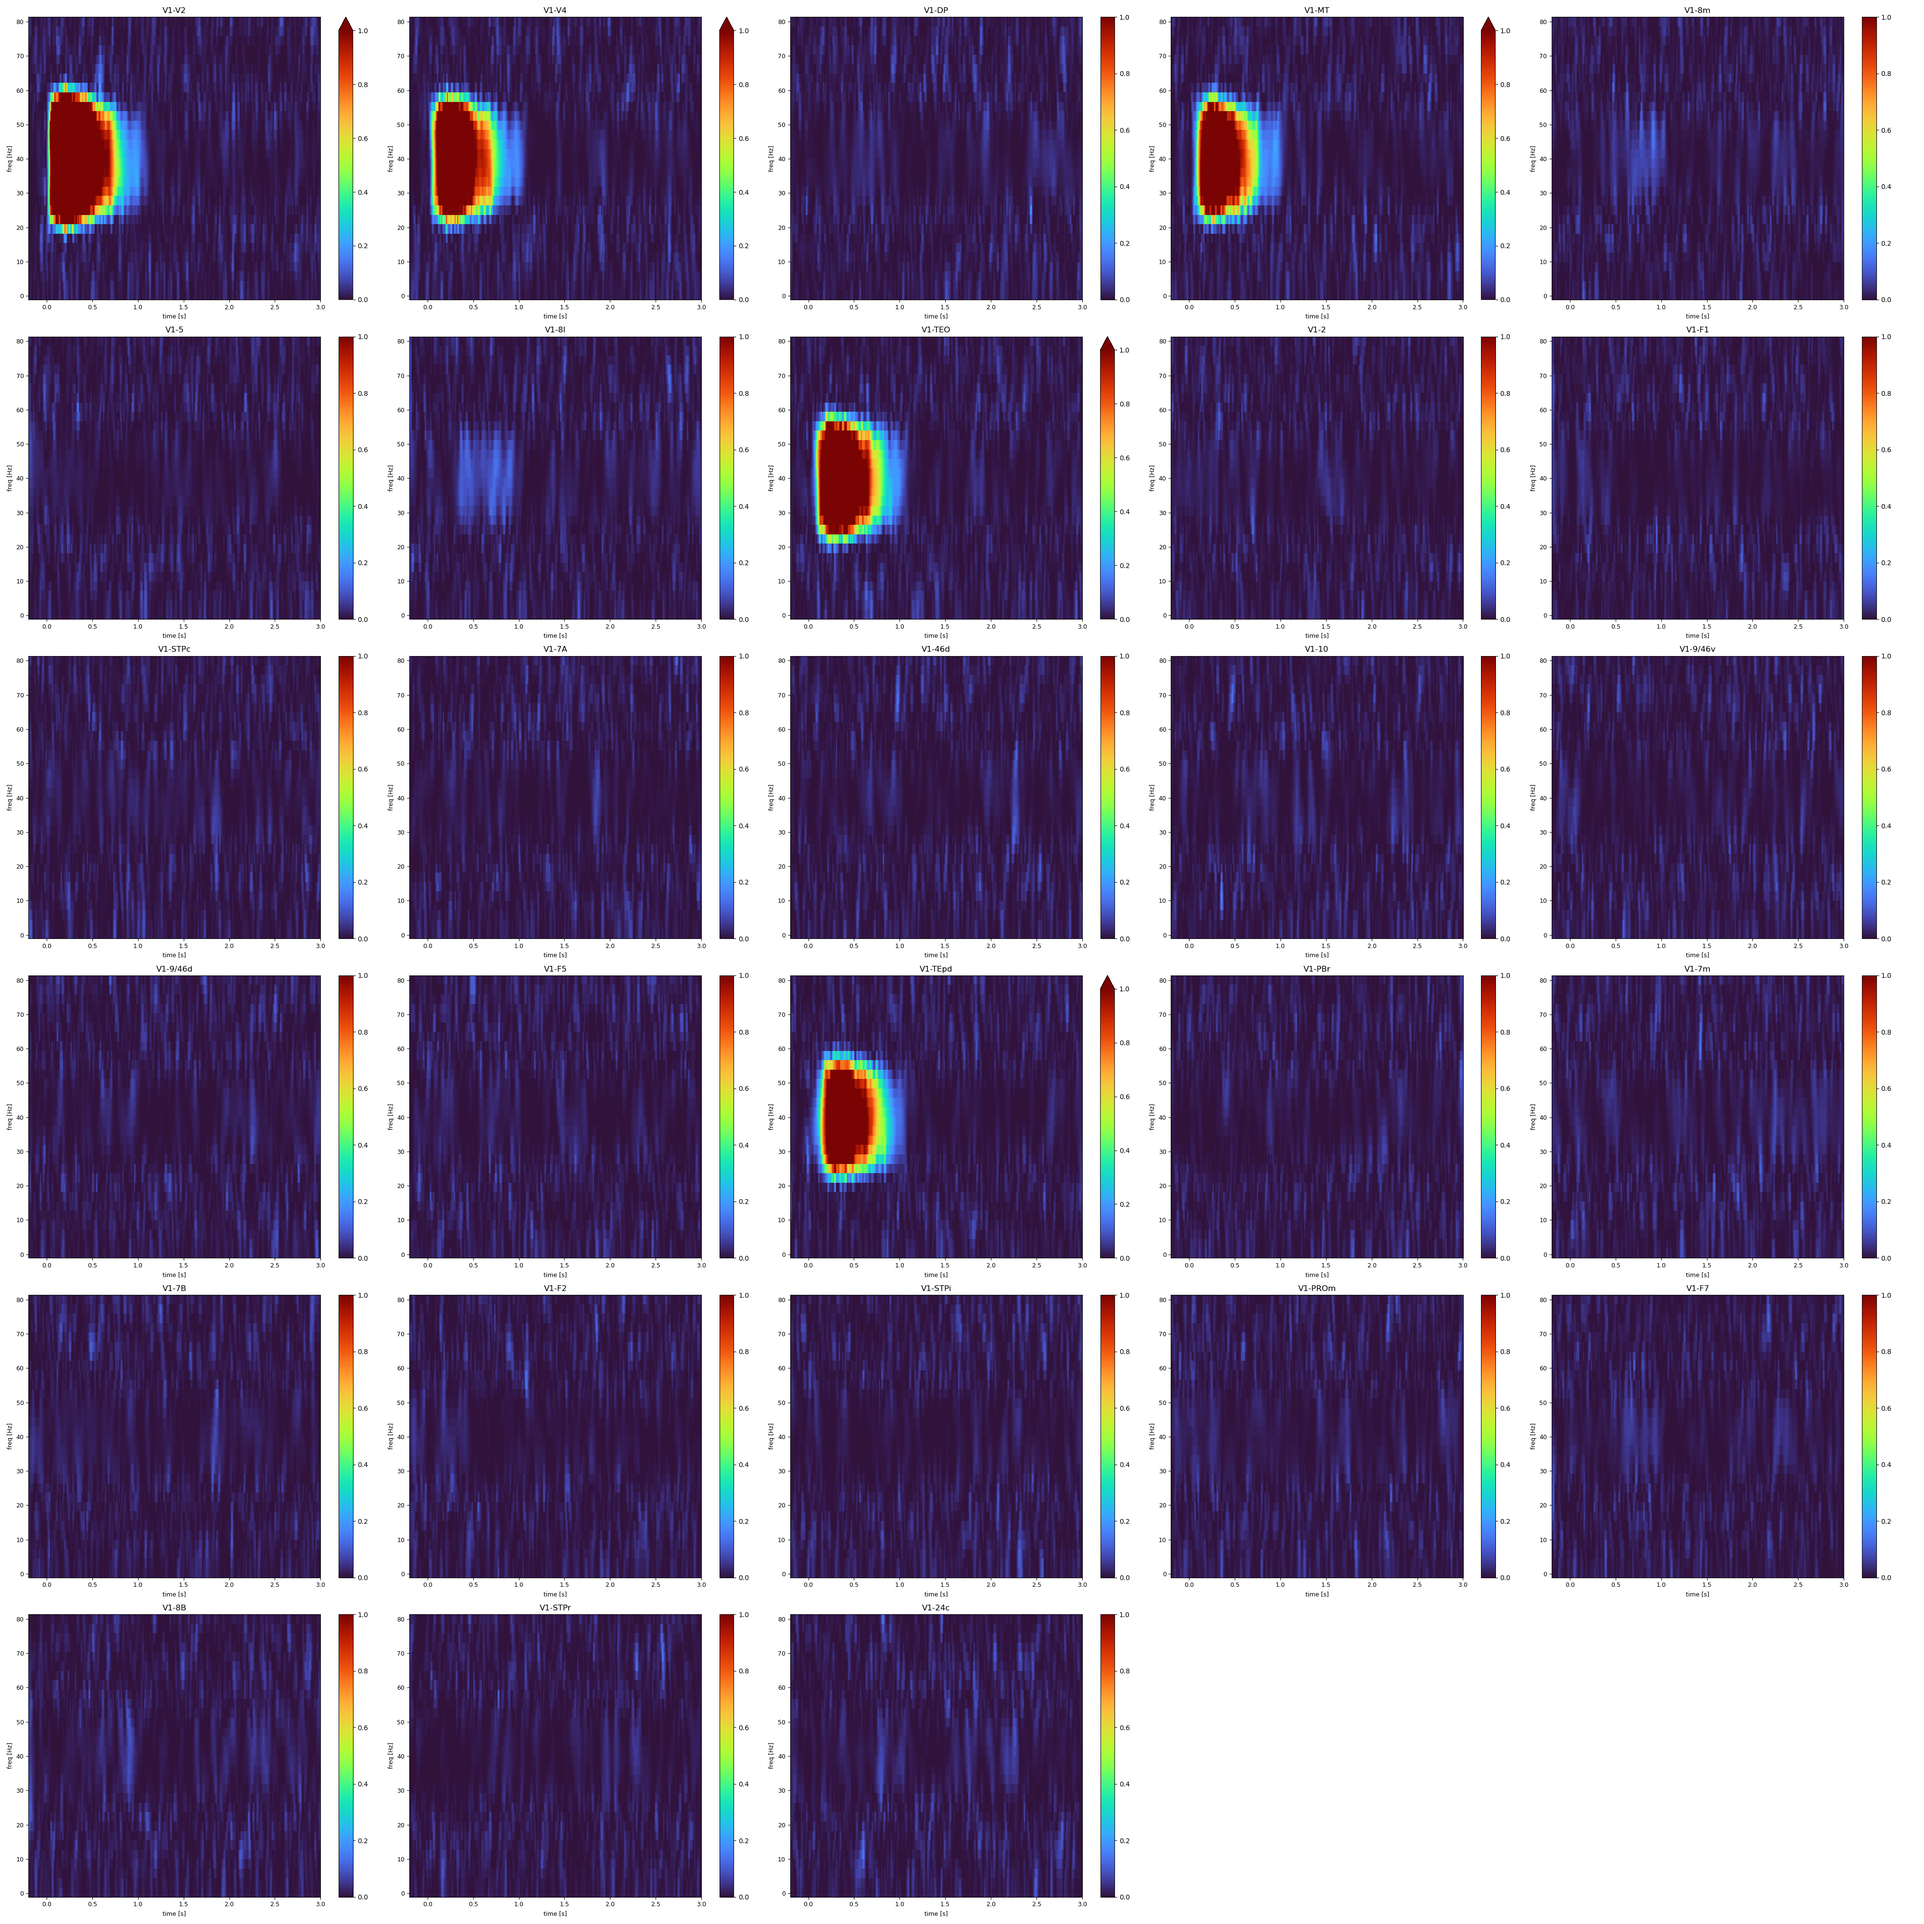
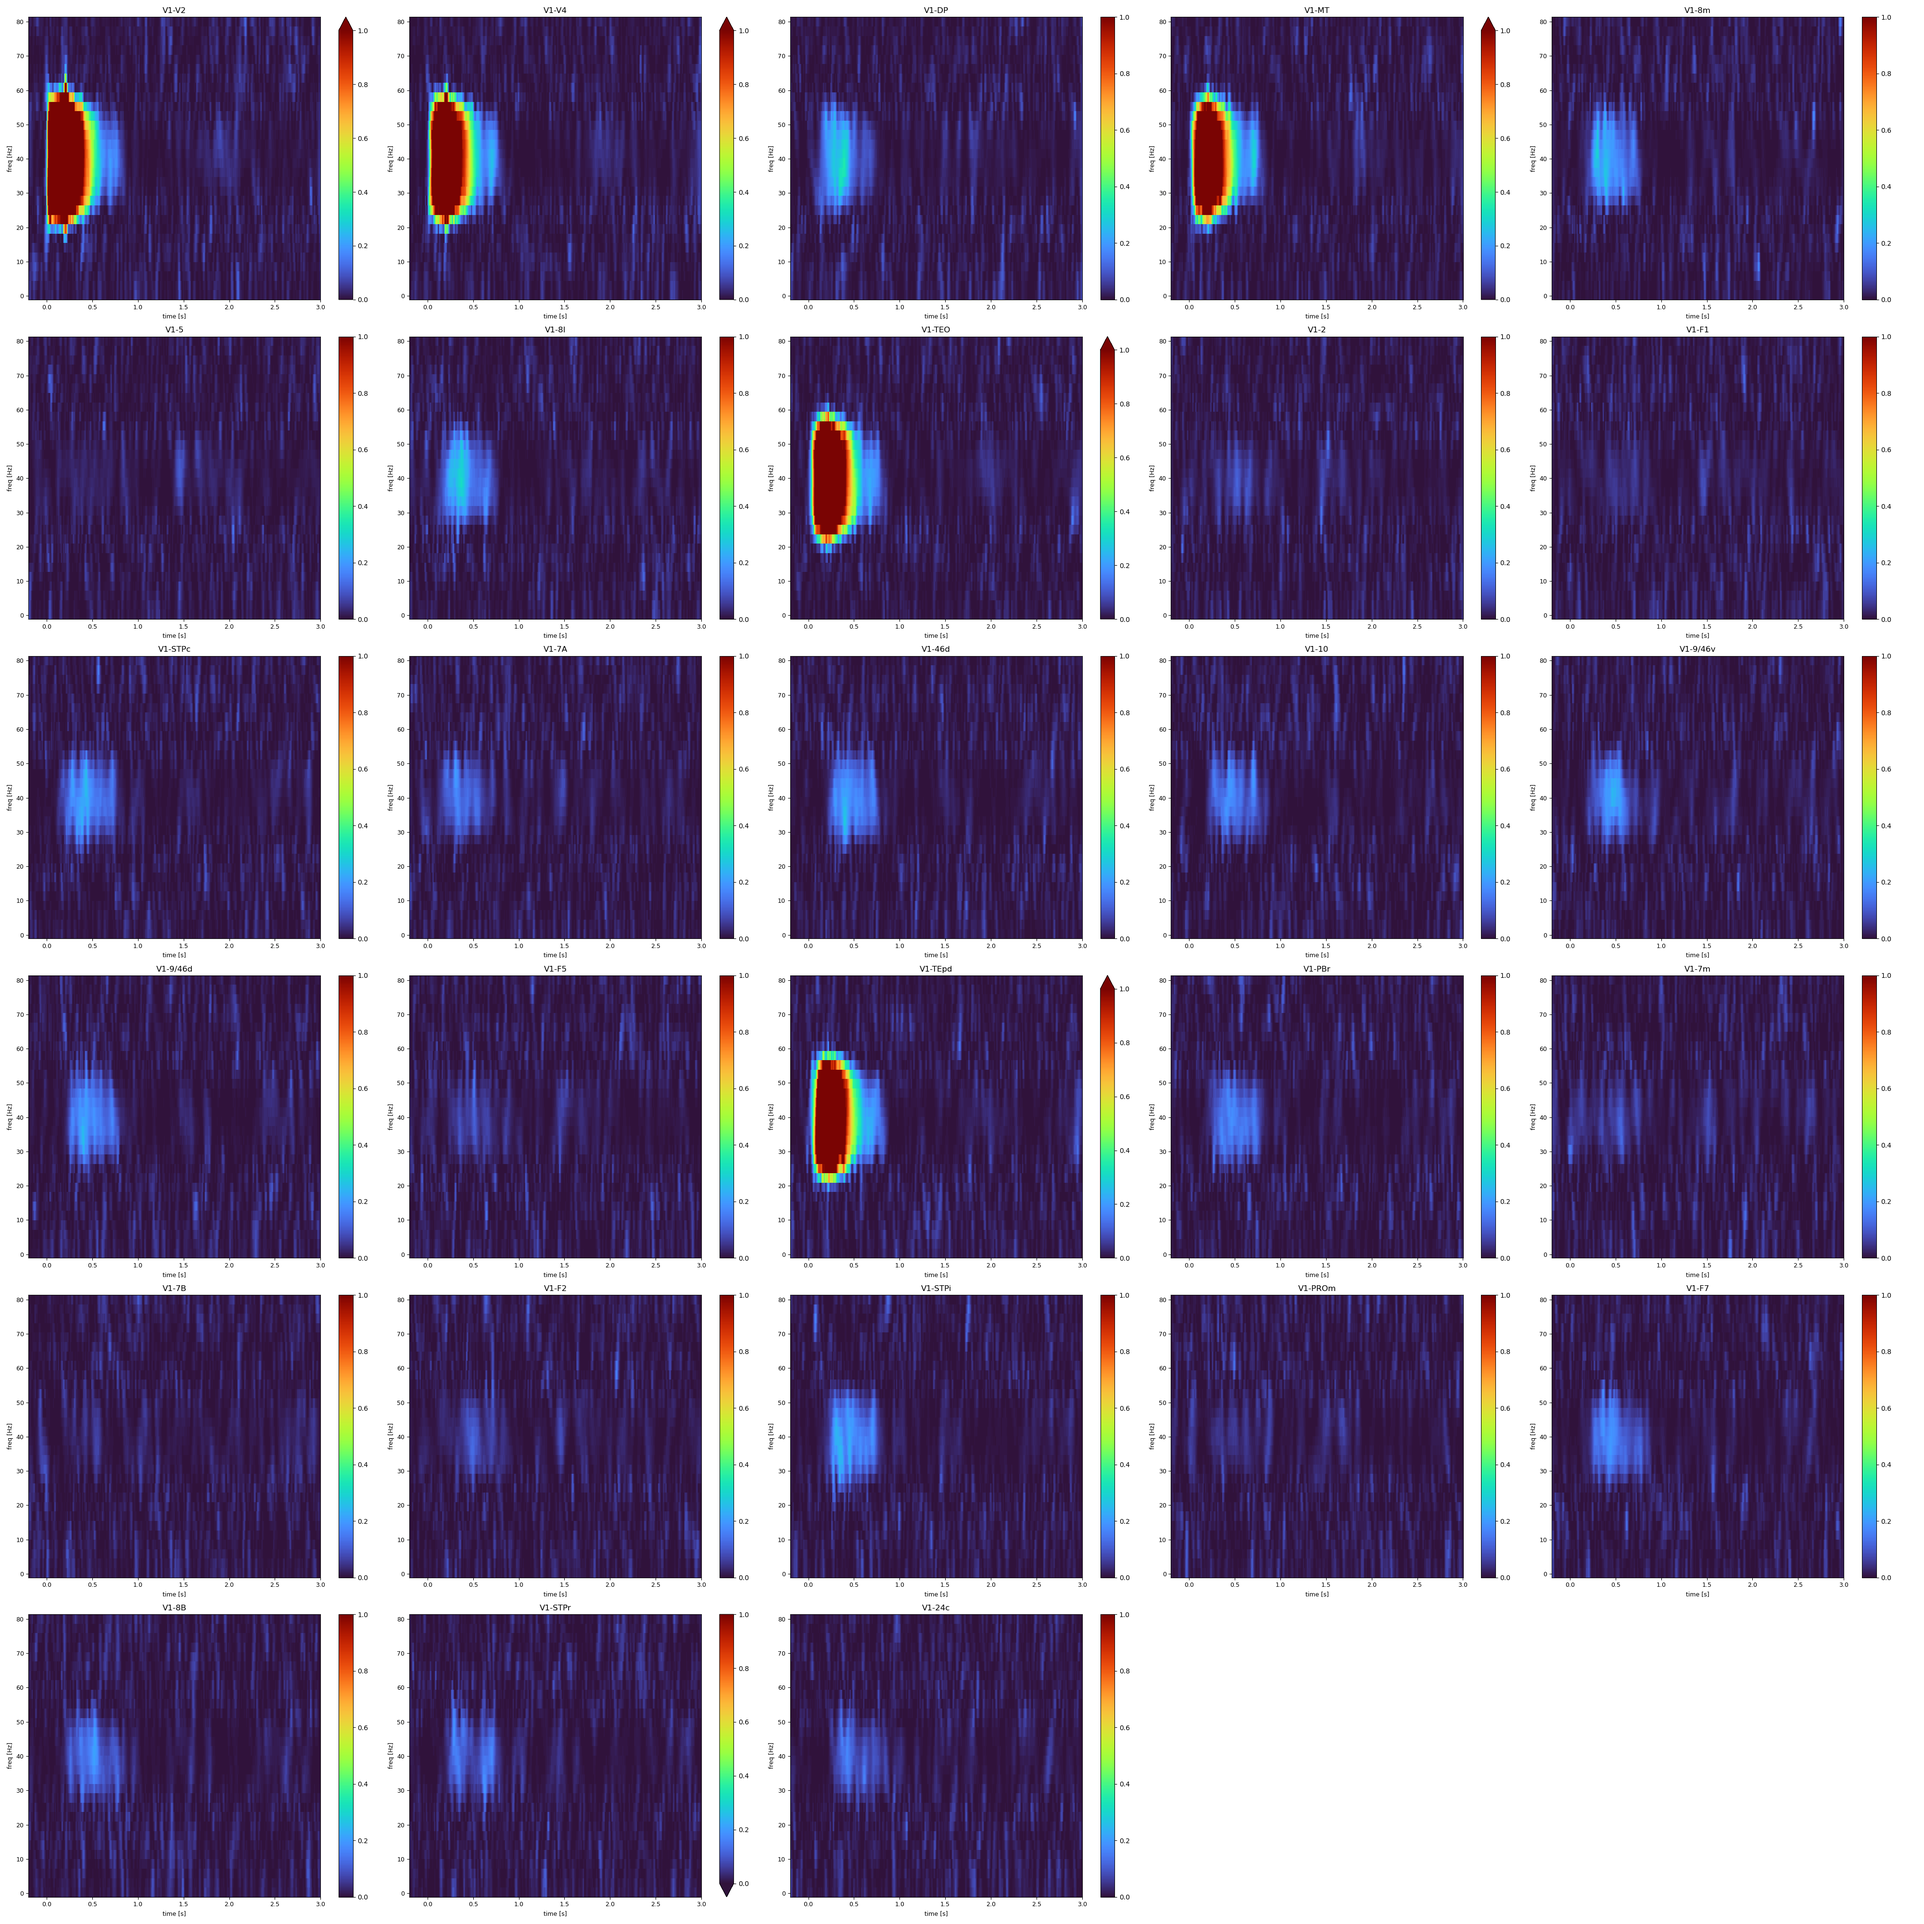
up

Changed region(s): [[0.0, 0.0, 0.5625, 1.0], [0.5938, 0.0, 0.9688, 0.8438]]

diff --git a/wang.py b/wang.py
@@ -34,7 +34,7 @@ D = (D * fsamp).astype(int)
 
 f = 40  # np.linspace(20, 60, Nareas)[::-1]  # Node natural frequency in Hz
 
-muee = 10
+muee = 30
 flnMat = (1 + eta * h[:, None]) * flnMat
 
 Iext = np.zeros((Nareas, Npoints))
